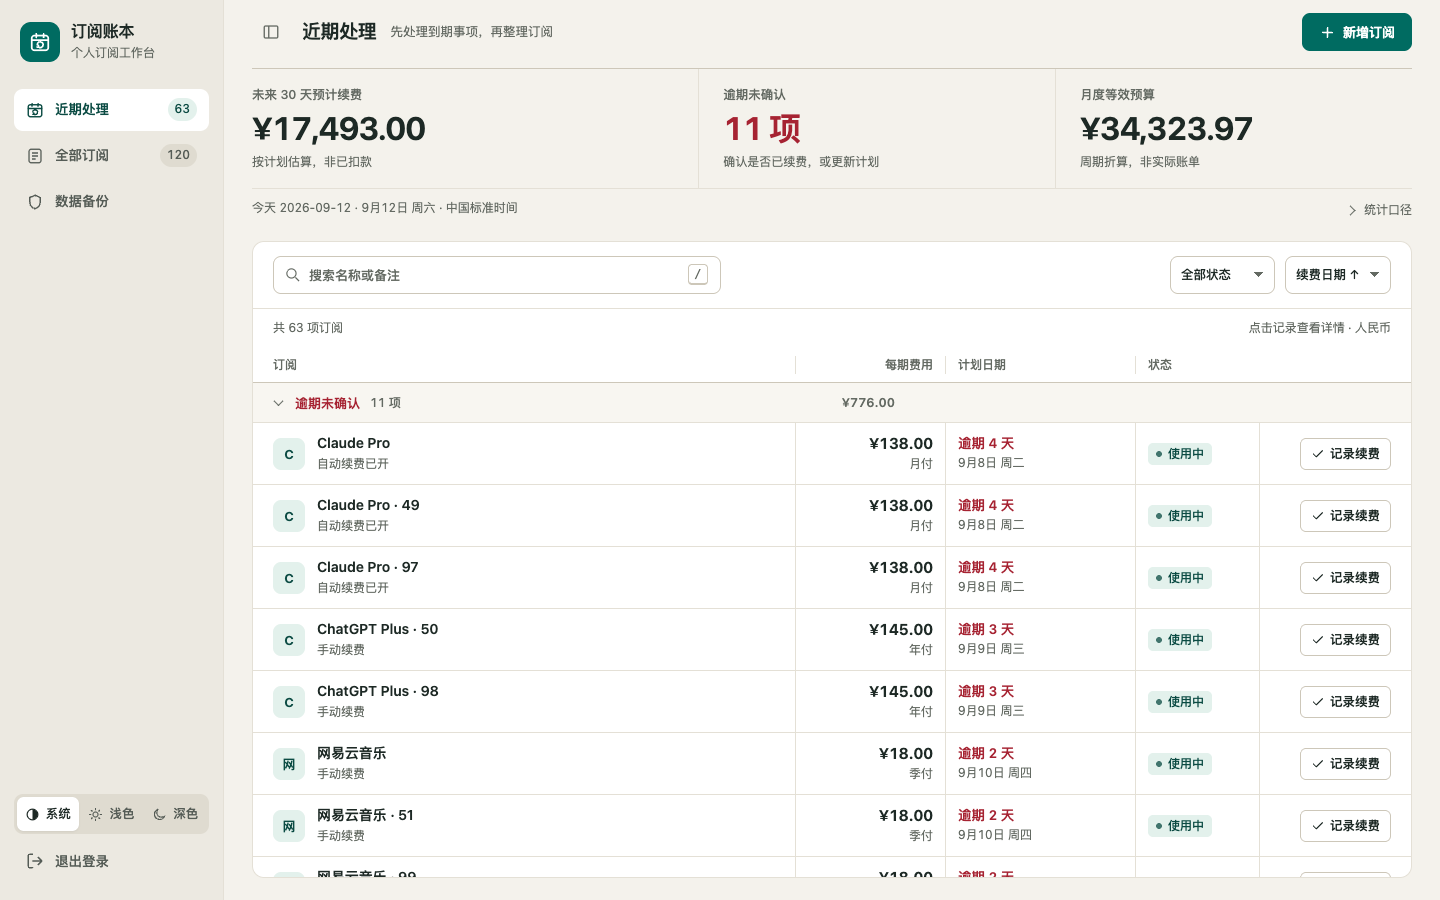
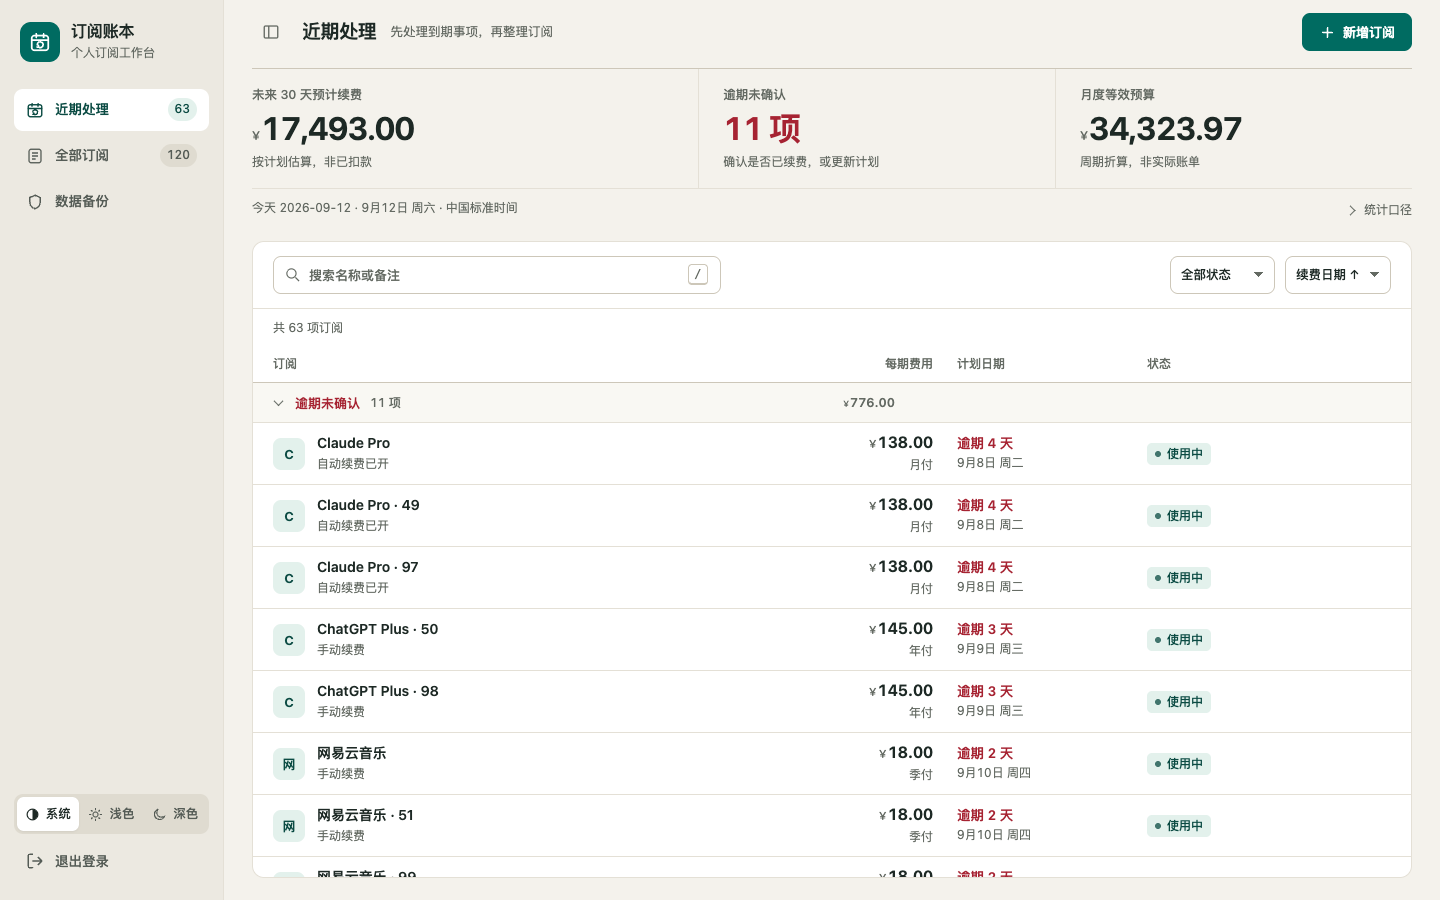
polish: hover-revealed row actions, sticky headers, muted currency, skeleton loading
- 鼠标环境下行内「记录续费」仅在悬停/聚焦/选中时出现，触屏常显；删除常驻提示文案
- 去列间竖线；表头与分组标题吸顶并带毛玻璃；货币符号缩小变淡，数字放大
- 首次加载超过 120ms 显示骨架行（aria-busy），加载失败可重试
- 手动切换深浅色 250ms 颜色过渡；分组展开时行淡入
- README、验收记录、PRODUCT.md 与截图更新

diff --git a/static/app.js b/static/app.js
@@ -18,6 +18,8 @@ function icon(id) {
 /* 金额与日期的展示口径：金额千分位、日期保留 ISO 记录并补中文读法。 */
 function money(value) { const [whole,fraction]=String(value).split('.'); return '¥'+whole.replace(/\B(?=(\d{3})+(?!\d))/g,',')+(fraction?'.'+fraction:''); }
 function moneyCents(cents) { return money((cents/100).toFixed(2)); }
+// 渲染用：货币符号单独成元素以便弱化，数字保持等宽；纯文本场景仍用 money()。
+function moneyNode(value) { const f=document.createDocumentFragment(); f.append(text('span','¥','cur'),document.createTextNode(money(value).slice(1))); return f; }
 function parseDay(iso) { return Date.parse(iso+'T00:00:00Z'); }
 function daysUntil(dateStr) { return (parseDay(dateStr)-parseDay(stats.today))/86400000; }
 function friendlyDate(iso) {
@@ -90,6 +92,25 @@ function emptyState(title, desc, control) {
   if(control) box.append(control);
   return box;
 }
+// 首次加载超过 120ms 才显示骨架，避免本地秒开时闪一下。
+function bone(cls) { return text('span','','bone '+cls); }
+function skeletonRows(count=6) {
+  const frag=document.createDocumentFragment();
+  for(let i=0;i<count;i++){
+    const row=text('div','','subscription skeleton');row.setAttribute('aria-hidden','true');
+    const title=text('div','','row-title');const name=text('div','','row-name');name.append(bone('bone--w60'),bone('bone--w40'));title.append(bone('bone--avatar'),name);
+    const amount=text('div','','row-amount');amount.append(bone('bone--w60'),bone('bone--w40'));
+    const date=text('div','','row-date');date.append(bone('bone--w60'),bone('bone--w80'));
+    const status=text('div','','row-status');status.append(bone('bone--chip'));
+    row.append(title,amount,date,status,text('div','','row-actions'));frag.append(row);
+  }
+  return frag;
+}
+function setLoading(on) {
+  $('#overview').classList.toggle('is-loading',on);
+  if(on){$('#list-scroll').setAttribute('aria-busy','true');$('#items').replaceChildren(skeletonRows());$('#result-count').textContent='正在加载…';}
+  else $('#list-scroll').removeAttribute('aria-busy');
+}
 // 近期按订阅的当前计划分组；预测事件只用于统计，不生成重复操作。
 function isActive(r) {return ['active','cancelling'].includes(r.status);}
 function recentGroup(r) {
@@ -112,7 +133,7 @@ function subscriptionRow(r) {
   const avatar=text('span',Array.from(r.name)[0]||'订','avatar avatar--'+r.status);avatar.setAttribute('aria-hidden','true');
   const name=text('span','','row-name');name.append(text('span',r.name,'service-name'),text('small',r.auto_renew?'自动续费已开':'手动续费','row-subline'));
   title.append(avatar,name);title.setAttribute('aria-label',`查看 ${r.name} 的详情`);
-  const amount=text('div','','row-amount');amount.append(text('strong',money(r.amount)),text('small',cycleLabel(r)));
+  const amount=text('div','','row-amount');const price=text('strong','');price.append(moneyNode(r.amount));amount.append(price,text('small',cycleLabel(r)));
   const date=text('div','','row-date');
   if(active){const rel=relativeDay(r.next_date);if(rel.cls)date.classList.add(rel.cls);date.append(text('strong',rel.text),dateNode(r.next_date));}
   else{date.classList.add('idle');date.append(text('strong',r.end_date?'服务截止':'不再计入预算'));date.append(r.end_date?dateNode(r.end_date):text('small','—'));}
@@ -144,9 +165,9 @@ function renderItems() {
     const section=text('details','','subscription-group'+(kind==='overdue'?' group--overdue':kind==='week'?' group--soon':''));section.open=keyword.trim()?true:!collapsedGroups.has(group.key);
     const heading=text('summary','','group-heading');
     const lead=text('span','','group-lead');lead.append(text('span',group.title,'group-title'),text('span',`${group.rows.length} 项`,'count'));heading.append(lead);
-    if(viewKey==='recent'||['active','cancelling'].includes(kind))heading.append(text('span',moneyCents(group.rows.reduce((n,r)=>n+r.amount_cents,0)),'group-sum'));
+    if(viewKey==='recent'||['active','cancelling'].includes(kind)){const sum=text('span','','group-sum');sum.append(moneyNode((group.rows.reduce((n,r)=>n+r.amount_cents,0)/100).toFixed(2)));heading.append(sum);}
     section.append(heading);
-    section.addEventListener('toggle',()=>{if(keyword.trim()||!section.isConnected)return;if(section.open)collapsedGroups.delete(group.key);else collapsedGroups.add(group.key);});
+    section.addEventListener('toggle',()=>{if(!section.isConnected)return;if(section.open){section.classList.add('just-opened');setTimeout(()=>section.classList.remove('just-opened'),300);}if(keyword.trim())return;if(section.open)collapsedGroups.delete(group.key);else collapsedGroups.add(group.key);});
     for(const r of group.rows)section.append(subscriptionRow(r));area.append(section);
   }
   restoreListFocus();
@@ -189,9 +210,18 @@ function renderViews() {
   renderDetail();renderItems();$('#list-scroll').scrollTop=scroll;
 }
 async function load() {
-  const result=await Promise.all([api('/api/items'),api('/api/summary')]);
+  const first=!items.length;
+  const pending=first?setTimeout(()=>setLoading(true),120):0;
+  let result;
+  try{result=await Promise.all([api('/api/items'),api('/api/summary')]);}
+  catch(e){
+    clearTimeout(pending);setLoading(false);
+    if(first&&!$('#ledger').hidden){$('#items').replaceChildren(emptyState('无法加载账本',e.message||String(e),action('重试',load,'ghost')));$('#result-count').textContent='';}
+    throw e;
+  }
+  clearTimeout(pending);setLoading(false);
   [items,stats]=result;
-  $('#budget').textContent=money(stats.monthly_budget);$('#forecast').textContent=money(stats.forecast_30);
+  $('#budget').replaceChildren(moneyNode(stats.monthly_budget));$('#forecast').replaceChildren(moneyNode(stats.forecast_30));
   const overdue=items.filter(r=>isActive(r)&&daysUntil(r.next_date)<0).length;
   $('#overdue-count').textContent=`${overdue} 项`;$('#overdue-count').classList.toggle('is-zero',overdue===0);
   $('#window-note').textContent=`今天 ${stats.today} · ${friendlyDate(stats.today)} · 中国标准时间`;
@@ -211,7 +241,8 @@ function renderDetail() {
   $('#board').classList.toggle('has-detail',!!r);
   if(!r){if(d.open)d.close();if(selectedId){selectedId='';history.replaceState(null,'',routeURL(viewKey));}displayedDetailId='';$('#detail-body').replaceChildren();$('#detail-actions').replaceChildren();return;}
   const body=$('#detail-body'),scroll=displayedDetailId===r.id?body.scrollTop:0;displayedDetailId=r.id;$('#detail-title').textContent=r.name;body.replaceChildren();
-  body.append(text('span',labels[r.status],`chip chip--${r.status}`),text('p',money(r.amount),'detail-amount'),text('p',cycleLabel(r),'muted'));
+  const price=text('p','','detail-amount');price.append(moneyNode(r.amount));
+  body.append(text('span',labels[r.status],`chip chip--${r.status}`),price,text('p',cycleLabel(r),'muted'));
   const plan=text('div','','detail-plan');
   if(isActive(r)){const rel=relativeDay(r.next_date);if(rel.cls)plan.classList.add(rel.cls);plan.append(text('span','当前待确认计划'),text('strong',rel.text),text('span',`${r.next_date} · ${friendlyDate(r.next_date)}`,'detail-plan-date'));}
   else plan.append(text('span','原计划日期'),text('strong',r.next_date),text('span',friendlyDate(r.next_date),'detail-plan-date'));
@@ -282,13 +313,15 @@ async function logout(){try{await api('/api/logout','POST',{});location.reload()
 $('#logout').addEventListener('click',logout);
 $('#logout-mobile').addEventListener('click',logout);
 // 外观：跟随系统 / 浅色 / 深色。偏好存浏览器本地，theme.js 在首帧前读取。
-function applyTheme(mode){
-  if(mode==='light'||mode==='dark')document.documentElement.dataset.theme=mode;else delete document.documentElement.dataset.theme;
+function applyTheme(mode, animate){
+  const root=document.documentElement;
+  if(animate){root.classList.add('theme-transition');setTimeout(()=>root.classList.remove('theme-transition'),320);}
+  if(mode==='light'||mode==='dark')root.dataset.theme=mode;else delete root.dataset.theme;
   try{if(mode==='system')localStorage.removeItem('ledger-theme');else localStorage.setItem('ledger-theme',mode);}catch(e){/* 私密模式等无法持久化时仍即时生效 */}
   for(const b of document.querySelectorAll('[data-theme-mode]'))b.setAttribute('aria-pressed',String(b.dataset.themeMode===mode));
 }
-for(const b of document.querySelectorAll('[data-theme-mode]'))b.addEventListener('click',()=>applyTheme(b.dataset.themeMode));
-applyTheme(document.documentElement.dataset.theme||'system');
+for(const b of document.querySelectorAll('[data-theme-mode]'))b.addEventListener('click',()=>applyTheme(b.dataset.themeMode,true));
+applyTheme(document.documentElement.dataset.theme||'system',false);
 $('#export').addEventListener('click',async()=>{try{const backup=await api('/api/export');const url=URL.createObjectURL(new Blob([JSON.stringify(backup,null,2)],{type:'application/json'}));const a=document.createElement('a');a.href=url;a.download=`订阅账本-${stats.today}.json`;a.click();setTimeout(()=>URL.revokeObjectURL(url),1000);reportOk('已导出备份 JSON。');}catch(e){reportError(e);}});
 $('#import-file').addEventListener('change',()=>{$('#restore').disabled=!$('#import-file').files.length;localReport('#restore-status','');});
 $('#restore').addEventListener('click',async()=>{const button=$('#restore');try{const file=$('#import-file').files[0];if(!file)throw new Error('请先选择备份文件');if(file.size>2*1024*1024)throw new Error('文件超过 2 MiB');const backup=JSON.parse(await file.text());const incoming=Array.isArray(backup?.items)?backup.items.length:0;

diff --git a/static/style.css b/static/style.css
@@ -972,14 +972,13 @@ dialog form,.drawer-layout {
   padding:0 12px;
   min-width:0
 }
-.table-head>span+span,.subscription>*+* {
-  border-left:1px solid var(--line)
-}
 .table-head {
   position:sticky;
   top:0;
-  z-index:1;
-  background:var(--card);
+  z-index:2;
+  background:color-mix(in srgb,var(--card) 86%,transparent);
+  -webkit-backdrop-filter:blur(10px);
+  backdrop-filter:blur(10px);
   height:36px;
   align-items:center;
   color:var(--muted);
@@ -1062,11 +1061,22 @@ dialog form,.drawer-layout {
   font-variant-numeric:tabular-nums
 }
 .row-amount strong {
-  font-size:15.5px;
+  font-size:16px;
   font-weight:650;
   letter-spacing:-.01em;
   line-height:1.2;
   white-space:nowrap
+}
+/* 货币符号退后一步，数字才是主角。 */
+.cur {
+  font-size:.72em;
+  font-weight:500;
+  color:var(--muted);
+  margin-right:.08em;
+  letter-spacing:0
+}
+.subscription.selected .cur {
+  color:var(--accent-ink)
 }
 .row-amount small,.row-date time,.row-date small {
   font-size:12px;
@@ -1107,6 +1117,18 @@ dialog form,.drawer-layout {
 .row-actions .compact {
   white-space:nowrap
 }
+/* 鼠标环境下行操作按需显现：悬停、行内聚焦或已选中时出现；触屏常显。 */
+@media (hover:hover) and (pointer:fine) {
+  .row-actions .compact {
+    opacity:0;
+    transform:translateX(4px);
+    transition:opacity .15s var(--ease),transform .15s var(--ease),background .15s var(--ease),border-color .15s var(--ease)
+  }
+  .subscription:hover .row-actions .compact,.subscription:focus-within .row-actions .compact,.subscription.selected .row-actions .compact {
+    opacity:1;
+    transform:none
+  }
+}
 .row-chevron {
   width:18px;
   height:18px;
@@ -1121,6 +1143,9 @@ dialog form,.drawer-layout {
   color:var(--accent)
 }
 .group-heading {
+  position:sticky;
+  top:36px;
+  z-index:1;
   display:grid;
   grid-template-columns:minmax(240px,1fr) 150px minmax(0,1fr);
   align-items:center;
@@ -1130,7 +1155,9 @@ dialog form,.drawer-layout {
   font-size:13px;
   font-weight:600;
   color:var(--ink);
-  background:var(--soft);
+  background:color-mix(in srgb,var(--soft) 84%,transparent);
+  -webkit-backdrop-filter:blur(10px);
+  backdrop-filter:blur(10px);
   border-bottom:1px solid var(--line);
   list-style:none;
   user-select:none
@@ -1200,6 +1227,76 @@ dialog form,.drawer-layout {
 .empty button,.empty a {
   margin-top:14px
 }
+/* 分组展开时行淡入；仅在用户点击时加 just-opened，搜索重绘不触发。 */
+.subscription-group.just-opened>.subscription {
+  animation:row-in .22s var(--ease) both
+}
+@keyframes row-in {
+  from {
+    opacity:0;
+    transform:translateY(-4px)
+  }
+  to {
+    opacity:1;
+    transform:none
+  }
+}
+/* 骨架：首次加载超过 120ms 才出现。 */
+.subscription.skeleton {
+  cursor:default;
+  pointer-events:none
+}
+.skeleton .row-title {
+  display:flex;
+  align-items:center;
+  gap:12px
+}
+.skeleton .row-name {
+  flex:1;
+  gap:8px
+}
+.bone {
+  display:block;
+  height:11px;
+  border-radius:6px;
+  background:linear-gradient(90deg,var(--soft) 25%,var(--line) 50%,var(--soft) 75%);
+  background-size:200% 100%;
+  animation:shimmer 1.4s linear infinite
+}
+.row-amount .bone+.bone,.row-date .bone+.bone {
+  margin-top:8px
+}
+.bone--w40 {
+  width:40%
+}
+.bone--w60 {
+  width:60%
+}
+.bone--w80 {
+  width:80%
+}
+.bone--avatar {
+  width:32px;
+  height:32px;
+  border-radius:8px;
+  flex-shrink:0
+}
+.bone--chip {
+  width:56px;
+  height:20px;
+  border-radius:5px
+}
+@keyframes shimmer {
+  from {
+    background-position:200% 0
+  }
+  to {
+    background-position:-200% 0
+  }
+}
+.overview.is-loading .metrics strong {
+  opacity:.35
+}
 
 /* 账页随所在容器宽度换列：中等宽度收窄列，窄容器改为卡片。 */
 @container list (max-width:979px) {
@@ -1230,9 +1327,6 @@ dialog form,.drawer-layout {
   }
   .subscription>* {
     padding:0
-  }
-  .subscription>*+* {
-    border-left:0
   }
   .row-title {
     grid-column:1;
@@ -1278,6 +1372,7 @@ dialog form,.drawer-layout {
     display:none
   }
   .group-heading {
+    top:0;
     display:flex;
     gap:10px;
     padding:8px 16px;
@@ -1684,9 +1779,8 @@ dialog form,.drawer-layout {
     min-height:44px;
     height:44px
   }
-  .list-caption>span:last-child {
-    max-width:150px;
-    text-align:right
+  .list-caption {
+    padding:10px 16px
   }
   .mobile-nav {
     position:fixed;
@@ -1804,6 +1898,10 @@ dialog form,.drawer-layout {
     opacity:1;
     transform:none
   }
+}
+/* 手动切换深浅色时给颜色 250ms 过渡；仅在切换瞬间挂 class，平时不影响组件自身过渡。 */
+.theme-transition,.theme-transition *,.theme-transition *::before,.theme-transition *::after {
+  transition:background-color .25s var(--ease),color .25s var(--ease),border-color .25s var(--ease),fill .25s var(--ease)!important
 }
 @media(prefers-reduced-motion:reduce) {
   *,*::before,*::after {

diff --git a/templates/index.html b/templates/index.html
@@ -66,7 +66,7 @@
         <div class="toolbar"><label class="search-field"><span class="sr-only">搜索名称或备注</span><svg aria-hidden="true" viewBox="0 0 24 24" fill="none" stroke="currentColor" stroke-width="1.7"><circle cx="10.5" cy="10.5" r="6.5"/><path d="m16 16 5 5"/></svg><input id="search" aria-label="搜索名称或备注" type="search" placeholder="搜索名称或备注" autocomplete="off"><kbd class="kbd-hint" aria-hidden="true">/</kbd><button id="clear-search" type="button" class="icon-btn" aria-label="清空搜索" hidden><svg aria-hidden="true"><use href="#i-close"/></svg></button></label><span class="grow"></span>
         <label class="filter-field"><span class="sr-only">筛选状态</span><select id="filter"><option value="all">全部状态</option><option value="active">使用中</option><option value="cancelling">准备取消</option><option value="cancelled">已取消续费</option><option value="ended">已结束</option></select></label>
         <label class="sort-field"><span class="sr-only">组内排序</span><select id="sort"><option value="date">续费日期 ↑</option><option value="name">名称 A–Z</option><option value="amount">每期金额 ↓</option></select></label></div>
-        <div class="list-caption"><span id="result-count" role="status" aria-live="polite"></span><span>点击记录查看详情 · 人民币</span></div>
+        <div class="list-caption"><span id="result-count" role="status" aria-live="polite"></span></div>
         <div id="list-scroll" class="list-scroll"><div class="table-head" aria-hidden="true"><span>订阅</span><span>每期费用</span><span>计划日期</span><span>状态</span><span></span></div><div id="items"></div></div>
       </section>
 <dialog id="detail" class="detail-drawer" aria-labelledby="detail-title">

diff --git a/README.md b/README.md
@@ -34,7 +34,7 @@ python3 -m venv .venv
 
 ## 备份、恢复与回滚
 
-工作台为浅灰侧栏 + 纸面色工作区，侧栏依次为「近期处理 / 全部订阅 / 数据备份」，左下角是外观切换（跟随系统 / 浅色 / 深色，偏好存浏览器本地）与退出登录；手机底栏同样三个视图，外观切换与退出登录放在备份页底部。近期页保留三项统计（未来 30 天预计续费、逾期未确认、月度等效预算），清单按逾期 / 7 天内 / 30 天内分组并显示组内每期金额小计；逾期与 7 天内的记录行内直接提供「记录续费」。全部页直接显示清单，工具栏固定、列表独立滚动，支持名称/备注搜索、状态筛选、组内排序与分组折叠（已取消、已结束默认折叠）。整行可点击打开详情；宽屏详情与列表并排，窄屏为原生模态。金额千分位显示，日期同时给出「逾期/还剩 N 天」和「9月8日 周二」读法，记录本身仍为 ISO 日期。快捷键：`/` 聚焦搜索，`N` 新增订阅，`Esc` 关闭详情。删除与恢复备份使用页面内确认弹窗并写明影响的记录数。URL hash 保留视图和选中记录，支持刷新及浏览器返回。所有图标与资源均在本地，深色模式默认随系统，也可手动指定。
+工作台为浅灰侧栏 + 纸面色工作区，侧栏依次为「近期处理 / 全部订阅 / 数据备份」，左下角是外观切换（跟随系统 / 浅色 / 深色，偏好存浏览器本地）与退出登录；手机底栏同样三个视图，外观切换与退出登录放在备份页底部。近期页保留三项统计（未来 30 天预计续费、逾期未确认、月度等效预算），清单按逾期 / 7 天内 / 30 天内分组并显示组内每期金额小计；逾期与 7 天内的记录行内直接提供「记录续费」。全部页直接显示清单，工具栏固定、列表独立滚动，支持名称/备注搜索、状态筛选、组内排序与分组折叠（已取消、已结束默认折叠）。整行可点击打开详情；宽屏详情与列表并排，窄屏为原生模态。鼠标环境下行内「记录续费」在悬停、键盘聚焦或选中时才出现，触屏常显；表头与分组标题在滚动时吸顶。金额千分位显示且货币符号弱化，日期同时给出「逾期/还剩 N 天」和「9月8日 周二」读法，记录本身仍为 ISO 日期。首次加载超过 120ms 显示骨架行。快捷键：`/` 聚焦搜索，`N` 新增订阅，`Esc` 关闭详情。删除与恢复备份使用页面内确认弹窗并写明影响的记录数。URL hash 保留视图和选中记录，支持刷新及浏览器返回。所有图标与资源均在本地，深色模式默认随系统，也可手动指定。
 
 页面导出 JSON 包含订阅及续费历史，不包含登录密码/密钥。`version=1` 格式不变，新版支持恢复旧有月付/年付/天数备份以及含季付的备份；旧版应用不支持含 `quarterly` 的备份。备份仍含私人备注，需安全存放。
 

diff --git a/docs/acceptance.md b/docs/acceptance.md
@@ -1,5 +1,11 @@
 # 核心验收记录
 
+## 2026-09-12 精修（第三轮）
+
+- 用户从四项候选中选定三组（未选「详情显示续费历史」，数字字体保持系统字体）：降噪（鼠标环境下行内「记录续费」悬停/聚焦/选中时才出现，触屏常显；删除「点击记录查看详情 · 人民币」常驻提示）；排版（去列间竖线，表头与分组标题吸顶并带 `backdrop-filter` 毛玻璃，货币符号缩小变淡、数字放大到 16px，统计区与详情同样处理）；动态（首次加载超过 120ms 显示骨架行并标记 `aria-busy`，加载失败给出重试；手动切换深浅色 250ms 颜色过渡；分组展开时行淡入）。
+- 验证：37 项 pytest、8 组 HTTP 烟测、两个 Node 回归通过。Playwright 44 项只读交互检查通过，新增：悬停前后按钮 opacity 0→1、键盘聚焦显现、货币符号独立元素、滚动后表头 0px / 分组标题 36px 吸顶、API 延迟 700ms 时骨架出现并被真实行替换、无常驻提示文案。控制台无 error/warn。
+- `color-mix()` 与 `backdrop-filter` 需 Chrome 111 / Safari 16.2 以上；不支持时表头退化为不透明背景，功能不受影响。docs/ui 截图已更新。仍未做真实手机验收；未改后端。
+
 ## 2026-09-12 界面性格与交互（第二轮）
 
 - 用户选定「更有辨识度」方向：保留布局与青绿主色，改为纸面色工作区、白色账页、分栏表格；深青侧栏方案被用户否决后改为浅暖灰侧栏。侧栏底部说明文字删除。备份入口曾短暂移到右上角菜单，用户要求放回侧栏：现为「近期处理 / 全部订阅 / 数据备份」三项，左下角为外观切换与退出登录；手机底栏三个视图，备份页底部提供外观切换与退出。

diff --git a/PRODUCT.md b/PRODUCT.md
@@ -106,3 +106,7 @@ web
 ## 2026-09-12 视觉方向（第二轮）
 
 用户从「精修现有风格 / 更有辨识度 / 整体重做」中选定「更有辨识度」：布局与青绿主色不变，工作区改为纸面色底 + 白色账页 + 分栏表格，金额成为每行视觉锚点。用户否决了深青色侧栏（「颜色太丑」），最终侧栏为浅暖灰、青绿只用于品牌标、当前项与主按钮；侧栏底部「单人使用 · 人民币 / 日期按中国标准时间」说明按用户要求删除。数据备份曾短暂移到右上角菜单，用户随后要求放回侧栏：现在侧栏为「近期处理 / 全部订阅 / 数据备份」，左下角是外观切换与退出登录；手机底栏保留三个视图，外观切换与退出放在备份页底部。用户问及换肤后新增「跟随系统 / 浅色 / 深色」三段切换，偏好存浏览器本地，不做多套配色皮肤。交互一并落地：整行可点、近期页行内续费、中文日期与剩余天数、页面内确认弹窗、快捷键。仍无 DESIGN.md；如需固化令牌与组件规范，可运行 `/impeccable document`。
+
+## 2026-09-12 精修（第三轮）
+
+用户要求「更高级」，从候选中选定：行操作悬停显现、去列竖线与吸顶毛玻璃、货币符号弱化、骨架加载与主题过渡；明确不做自托管数字字体（保持零二进制资源），暂不做详情续费历史。常驻提示文案「点击记录查看详情 · 人民币」删除。
